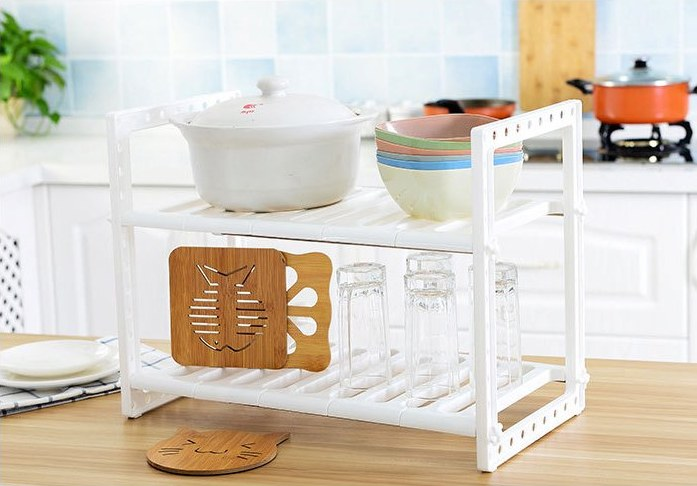
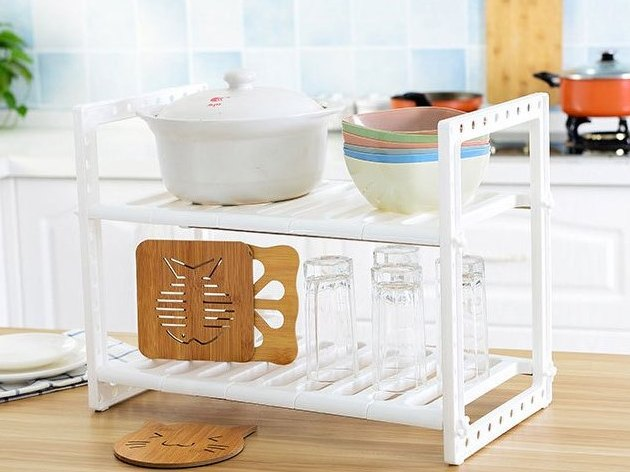
배너 설계안 A — 사진은 전부 4:3 파일, 컴퓨터 띠는 글 50 · 사진 50 고정, 분야 이름 작게
- assets/cat-bath · cat-repair · cat-storage · cat-kitchen.jpg: 상세 사진에서 글자 없는 장면만 4:3 으로
- 화면에서 자르기 · 늘리기 0, 어떤 장이든 같은 모양

diff --git a/assets/style.css b/assets/style.css
@@ -125,16 +125,17 @@ h1,h2,h3,p{margin:0}
 .slides-track{display:flex;gap:10px;overflow-x:auto;scroll-snap-type:x mandatory;scrollbar-width:none;-webkit-overflow-scrolling:touch;outline:none}
 .slides-track::-webkit-scrollbar{display:none}
 .slides-track:focus-visible{outline:2px solid var(--ink);outline-offset:4px}
-.slide{position:relative;flex:0 0 100%;scroll-snap-align:start;display:flex;align-items:stretch;height:clamp(340px,36vw,460px);border-radius:var(--r-l);overflow:hidden;background:var(--soft);color:var(--ink);text-decoration:none}
-/* 5판 11차(오너 "늘리면 잘리거나 흰 바탕이 보인다"): 상자에 맞추지 않는다 — 사진은 제 생김새 그대로 띠 높이에 맞춰 오른쪽에(폭은 장마다 다름 · 세로 사진은 좁게, 가로 사진은 넓게), 남는 왼쪽이 글 칸.
-   app.js 가 사진을 읽은 뒤 그 가로세로비를 .slide-pic 에 적는다(읽기 전엔 4:3). 크기는 원본(860px)보다 작게만 쓰고, 조각 가장자리의 1~2px 흰 줄만 3% 확대로 가린다(자르기 0 · 늘리기 0) */
-.slide-pic{position:relative;order:2;flex:0 0 auto;height:100%;max-width:66%;aspect-ratio:4/3;overflow:hidden}
-.slide img{display:block;width:100%;height:100%;max-width:none;object-fit:cover;transform:scale(1.03)}
-.slide-t{order:1;flex:1 1 auto;align-self:center;min-width:0;padding:28px clamp(20px,3vw,44px)}
-.slide-en{margin:0;font-family:var(--f-display);font-size:clamp(34px,3.5vw,50px);font-weight:400;line-height:1.05;letter-spacing:-.02em;color:var(--ink)}
+.slide{position:relative;flex:0 0 100%;scroll-snap-align:start;display:flex;align-items:stretch;border-radius:var(--r-l);overflow:hidden;background:var(--soft);color:var(--ink);text-decoration:none}
+/* 5판 12차(설계안 안 A — 클로드 디자인 캔버스 'Still Goods 홈 배너 설계안' 2026-10-31): 배너 사진은 전부 4:3 으로 미리 잘라 둔 파일(assets/cat-*.jpg · hero.jpg)만 쓰므로
+   띠는 글 50 · 사진 50(1,200px 띠에서 600×450) 고정 — 화면에서 자르기 · 늘리기 0, 어떤 장이든 같은 모양. 조각 가장자리 1~2px 흰 줄만 2% 확대로 가림. 글 칸: 분야 이름(작게) → 문장(두 줄까지) → 단추, 세로 가운데 */
+.slide-pic{position:relative;order:2;flex:0 0 50%;aspect-ratio:4/3;overflow:hidden}
+.slide img{display:block;width:100%;height:100%;max-width:none;object-fit:cover;transform:scale(1.02)}
+.slide-t{order:1;flex:1 1 auto;align-self:center;min-width:0;padding:32px clamp(24px,4.6vw,56px)}
+.slide-eyebrow{display:block;margin:0 0 10px;font-size:13px;font-weight:600;letter-spacing:.08em;color:var(--ink-3)}
+.slide-en{margin:0;font-family:var(--f-display);font-size:clamp(38px,4.4vw,56px);font-weight:400;line-height:1.05;letter-spacing:-.02em;color:var(--ink)}
 .slide-en-l2{display:block}
-.slide-ko{margin:14px 0 0;font-size:clamp(15px,1.25vw,18px);font-weight:500;line-height:1.6;color:var(--ink-2)}
-.slide-q{margin:0;font-size:clamp(23px,2.2vw,31px);font-weight:600;line-height:1.3;letter-spacing:-.01em;color:var(--ink)}
+.slide-ko{margin:16px 0 0;font-size:clamp(16px,1.4vw,18px);font-weight:500;line-height:1.6;color:var(--ink-2)}
+.slide-q{margin:0;font-size:clamp(28px,3.1vw,40px);font-weight:600;line-height:1.25;letter-spacing:-.01em;color:var(--ink)}
 .slide-go{display:inline-flex;align-items:center;margin-top:22px;min-height:48px;padding:0 22px;border-radius:999px;background:var(--ink);color:#fff;font-size:15px;font-weight:600;text-decoration:none}
 .slides-arrow{position:absolute;top:calc(50% - 40px);z-index:2;display:grid;place-items:center;width:44px;height:44px;padding:0;border:1px solid var(--line);border-radius:50%;background:#fff;color:var(--ink);cursor:pointer;box-shadow:0 2px 8px rgba(0,0,0,.08)}
 .slides-arrow:hover{border-color:var(--line-2)}
@@ -297,9 +298,10 @@ h1,h2,h3,p{margin:0}
   /* 폰 배너(5판 7차): 한 장 — 사진 안 아래쪽에 글(어두운 띠 위 흰 글, 사진 파일은 그대로), 다음 장이 18px 보임 · 화살표 숨김. 상품 격자가 첫 화면 안에 들어오게 높이는 5:6 */
   .hero.has-slides{padding:12px 0 0}
   .slides-track{margin:0 calc(-1 * var(--gut));padding:0 var(--gut);scroll-padding:0 var(--gut)}
-  .slide{flex:0 0 calc(100% - 28px);display:block;height:auto;aspect-ratio:5/6;background:var(--bg-2);color:#fff}
-  .slide-pic{position:absolute;inset:0;height:auto;max-width:none;aspect-ratio:auto}
+  .slide{flex:0 0 calc(100% - 28px);display:block;aspect-ratio:5/6;background:var(--bg-2);color:#fff}
+  .slide-pic{position:absolute;inset:0;aspect-ratio:auto}
   .slide img{position:absolute;inset:0;width:100%;height:100%;transform:none}
+  .slide-eyebrow{display:none}
   .slide::after{content:"";position:absolute;inset:0;pointer-events:none;background:linear-gradient(180deg,rgba(0,0,0,0) 40%,rgba(20,18,15,.74) 100%)}   /* 글이 읽히게 아래만 어둡게 — 누름은 사진 링크로 통과 */
   .slide-t{position:absolute;left:0;right:0;bottom:0;z-index:1;padding:0 20px 20px;pointer-events:none}
   .slide-go{pointer-events:auto}

diff --git a/assets/app.js b/assets/app.js
@@ -143,7 +143,7 @@
 
   /* 0b 배너(5판 7차 폰 · 8차 컴퓨터 2026-10-31 — 오너 "사진 안에 슬로건 · 단추, if 문구는 스와이프로 / 웹도 동일하게"): 한 틀 = 글 + 사진, 옆으로 넘김.
      첫 장 = 첫 화면 사진(config.json hero_photo) + home.hero_en · hero_ko · hero_cta, 다음 장 = 분야 장면 사진(cat_photos) + home.problem.<분야> + guide.go('<분야> 상품 보기') → 목록의 그 분야.
-     폰은 사진 안 아래쪽(어두운 띠 위 흰 글), 컴퓨터는 글 왼쪽 · 사진 오른쪽 제 크기(CSS). 문장은 copy.ko.js 그대로. 자동 넘김 0(손 · 화살표 · 키보드 ← →) · 점 + 'n / 전체'. 사진이 없으면 안 만들고 글 + 사진 두 칸 그대로 */
+     폰은 사진 안 아래쪽(어두운 띠 위 흰 글), 컴퓨터는 글 왼쪽 50 · 사진 오른쪽 50(사진은 전부 4:3 파일 — 설계안 안 A 2026-10-31, CSS). 문장은 copy.ko.js 그대로. 자동 넘김 0(손 · 화살표 · 키보드 ← →) · 점 + 'n / 전체'. 사진이 없으면 안 만들고 글 + 사진 두 칸 그대로 */
   function paintSlides(conf, items) {
     var box = $('#heroSlides'), sec = $('#hero');
     if (!box || !sec) return;
@@ -155,7 +155,7 @@
       nicheOrder(items).slice(0, MAX_CATS).forEach(function (n) {
         var src = catPhoto(conf, n), k = 'home.problem.' + n, q = hasCopy(k) ? COPY[k].trim() : '';
         /* 5판 10차: if 장은 문장 + 단추 + 장면 사진만(9차에 넣었던 그 분야 상품 3개는 오너 "번잡 · 사진 잘림" + 아래 격자와 겹쳐 뺌 — 빈자리는 CSS 비율 글 35 · 사진 65 로) */
-        if (src && q) { CAT_Q[n] = 1; slides.push({ src: src, pos: 'center', q: q, btn: T('guide.go', { cat: NICHE_LABEL[n] || n }), href: 'shop.html?niche=' + encodeURIComponent(n) }); }
+        if (src && q) { CAT_Q[n] = 1; slides.push({ src: src, pos: 'center', eyebrow: NICHE_LABEL[n] || n, q: q, btn: T('guide.go', { cat: NICHE_LABEL[n] || n }), href: 'shop.html?niche=' + encodeURIComponent(n) }); }
       });
       if (!slides.length) return;
       var track = el('div', 'slides-track');
@@ -165,7 +165,6 @@
         var im = new Image();
         im.alt = ''; im.decoding = 'async'; if (i > 0) im.loading = 'lazy';
         im.style.objectPosition = sl.pos;
-        im.onload = function () { if (im.naturalWidth && im.naturalHeight) pic.style.aspectRatio = im.naturalWidth + ' / ' + im.naturalHeight; };   /* 컴퓨터 띠: 사진 제 생김새(CSS .slide-pic) */
         im.src = sl.src;
         pic.appendChild(im);
         a.appendChild(pic);
@@ -178,6 +177,7 @@
           t.appendChild(en);
         }
         if (sl.ko) t.appendChild(el('p', 'slide-ko', sl.ko));
+        if (sl.eyebrow) t.appendChild(el('span', 'slide-eyebrow', sl.eyebrow));   /* 분야 이름(작게) — 데이터, 폰은 숨김 */
         if (sl.q) t.appendChild(el('p', 'slide-q', sl.q));
         if (sl.btn) { var go = el('a', 'slide-go', sl.btn); go.href = sl.href; t.appendChild(go); }
         a.appendChild(t);

diff --git a/LICENSES.md b/LICENSES.md
@@ -30,7 +30,7 @@
 | 선 아이콘(분야 · 배송 · 반품 · 결제 · 문의 · 장바구니) | 이 사이트가 SVG 선으로 직접 그림(assets/ui.js) | 바깥 그림 · 아이콘 묶음 0 |
 | 상품 사진 | 상품을 보내는 협력 배송처가 쓰도록 허락한 사진 | 사진의 권리는 협력 배송처 등 권리자에게 있습니다. 화면에서는 크기와 자리만 맞추고 사진은 고치지 않습니다 |
 | 첫 화면 사진(assets/hero.jpg) | 슬라이딩 서랍 수납함의 공급사가 제공한 상품 상세 사진 중 한 장면(침실)을 글자 없는 부분만 잘라 썼습니다 | 자르기 말고는 손대지 않았고, 글자도 얹지 않았습니다. 권리는 위와 같이 권리자에게 있습니다 |
-| 홈 배너 분야 사진(assets/cat-entry.jpg · assets/cat-kitchen.jpg, 그리고 상품 사진 폴더의 장면 사진 3장) | 공급사가 제공한 상품 상세 사진 중 글자 없는 장면만 잘라 썼습니다(현관/신발은 슈즈랙 상세 사진, 주방 정리는 2단 싱크대 하부 상세 사진의 흰 테두리만 잘라냄, 나머지는 그 상품의 상세 사진 그대로) | 자르기 말고는 손대지 않았고, 글자도 얹지 않았습니다. 권리는 위와 같이 권리자에게 있습니다 |
+| 홈 배너 분야 사진(assets/cat-bath.jpg · cat-repair.jpg · cat-storage.jpg · cat-kitchen.jpg · cat-entry.jpg) | 공급사가 제공한 상품 상세 사진(수납 카트 · 의자 발커버 · 슬라이딩 수납함 · 2단 싱크대 하부 · 슈즈랙) 중 글자 없는 장면만 4:3 으로 잘라 썼습니다 | 자르기 말고는 손대지 않았고, 글자도 얹지 않았습니다. 권리는 위와 같이 권리자에게 있습니다 |
 
 ## 스크립트
 
